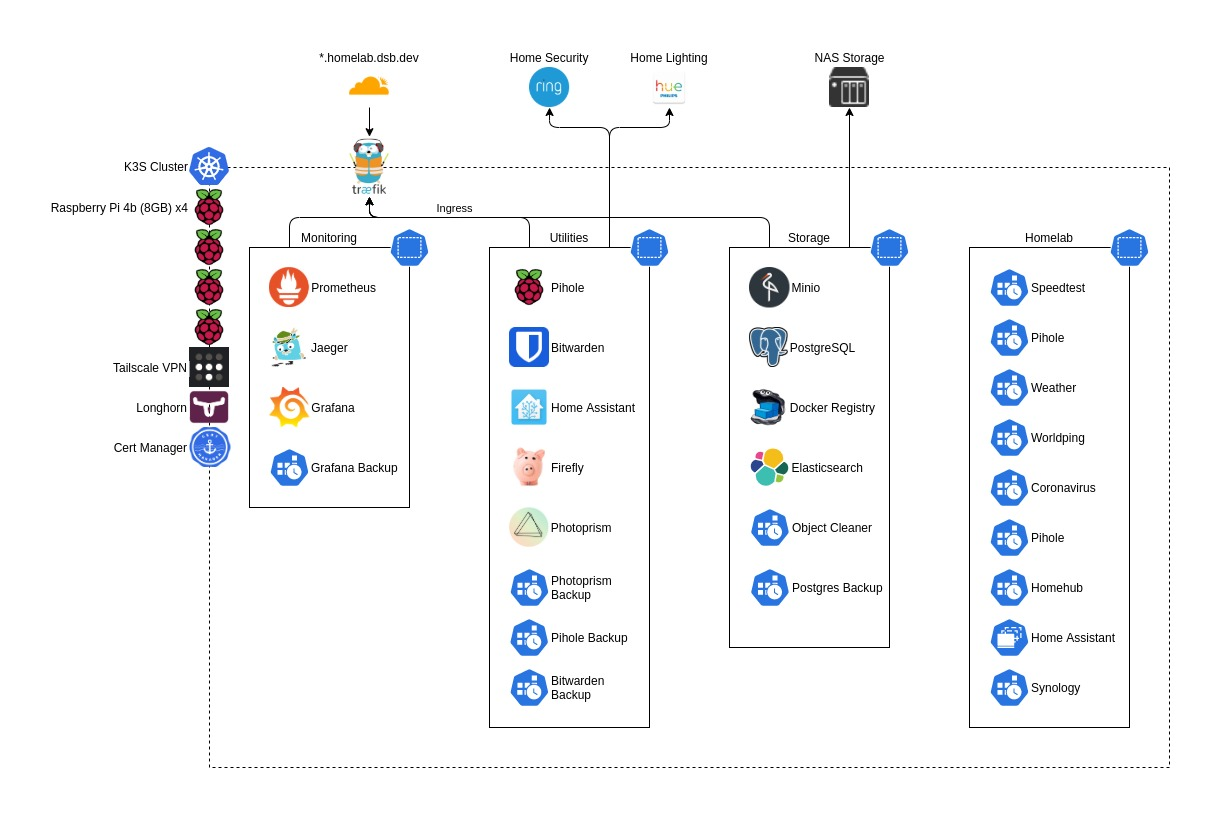
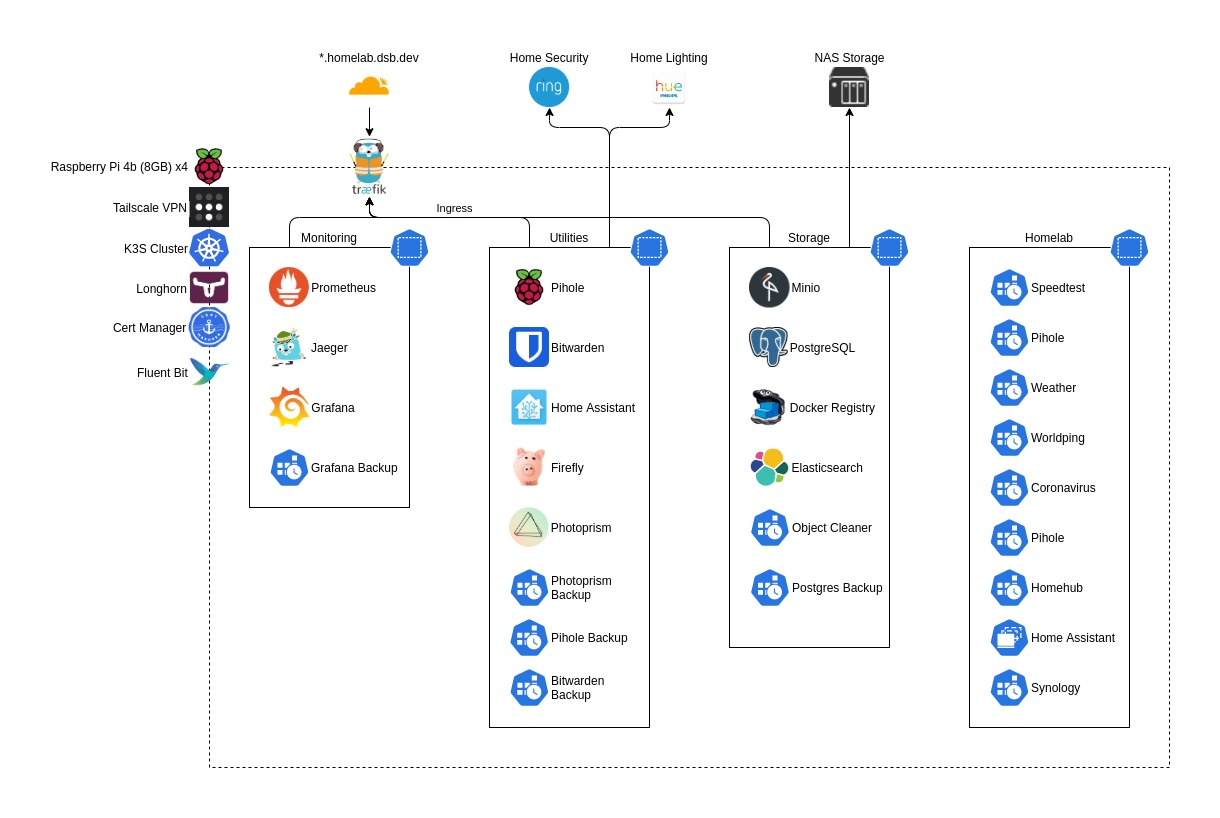
Add fluent-bit to README (#97)
Also adds timeout to elasticsearch readiness probe.

Changed region(s): [[0.0311, 0.1834, 0.1869, 0.5807]]

diff --git a/README.md b/README.md
@@ -61,6 +61,7 @@ Here's a list of third-party applications I'm using alongside my custom applicat
 * [docker-registry](https://docs.docker.com/registry/) - A stateless, highly scalable server side application that stores 
   and lets you distribute Docker images
 * [elasticsearch](https://www.elastic.co/) - A search engine based on the Lucene library
+* [fluent-bit](https://fluentbit.io/) - Log processor and forwarder
 
 ## Prometheus exporters
 
